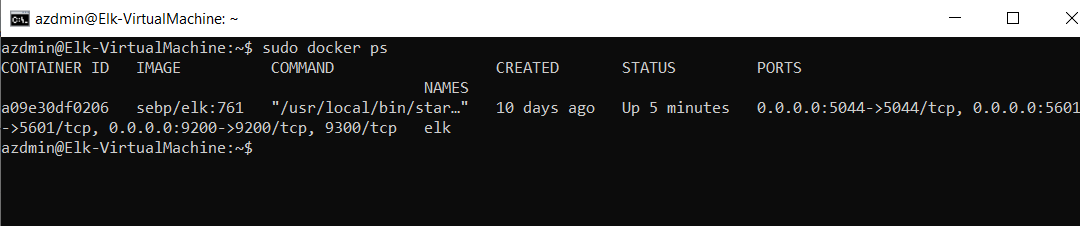
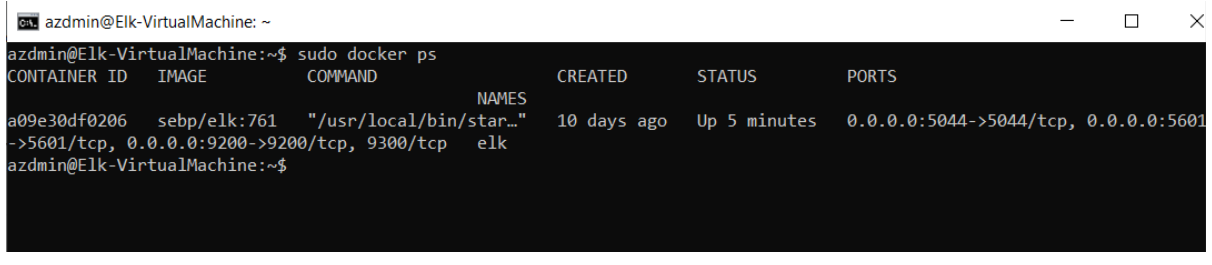
6th commit

diff --git a/README.md b/README.md
@@ -93,6 +93,8 @@ The following screenshot displays the result of running `docker ps` after succes
 
 ![Diagram/Project1_Network_Diagram.png](Diagram/Project1_Network_Diagram.png)
 
+![Images/Elk_container.png](Images/Elk_container.png)
+
 
 ### Target Machines & Beats
 This ELK server is configured to monitor the following machines:
